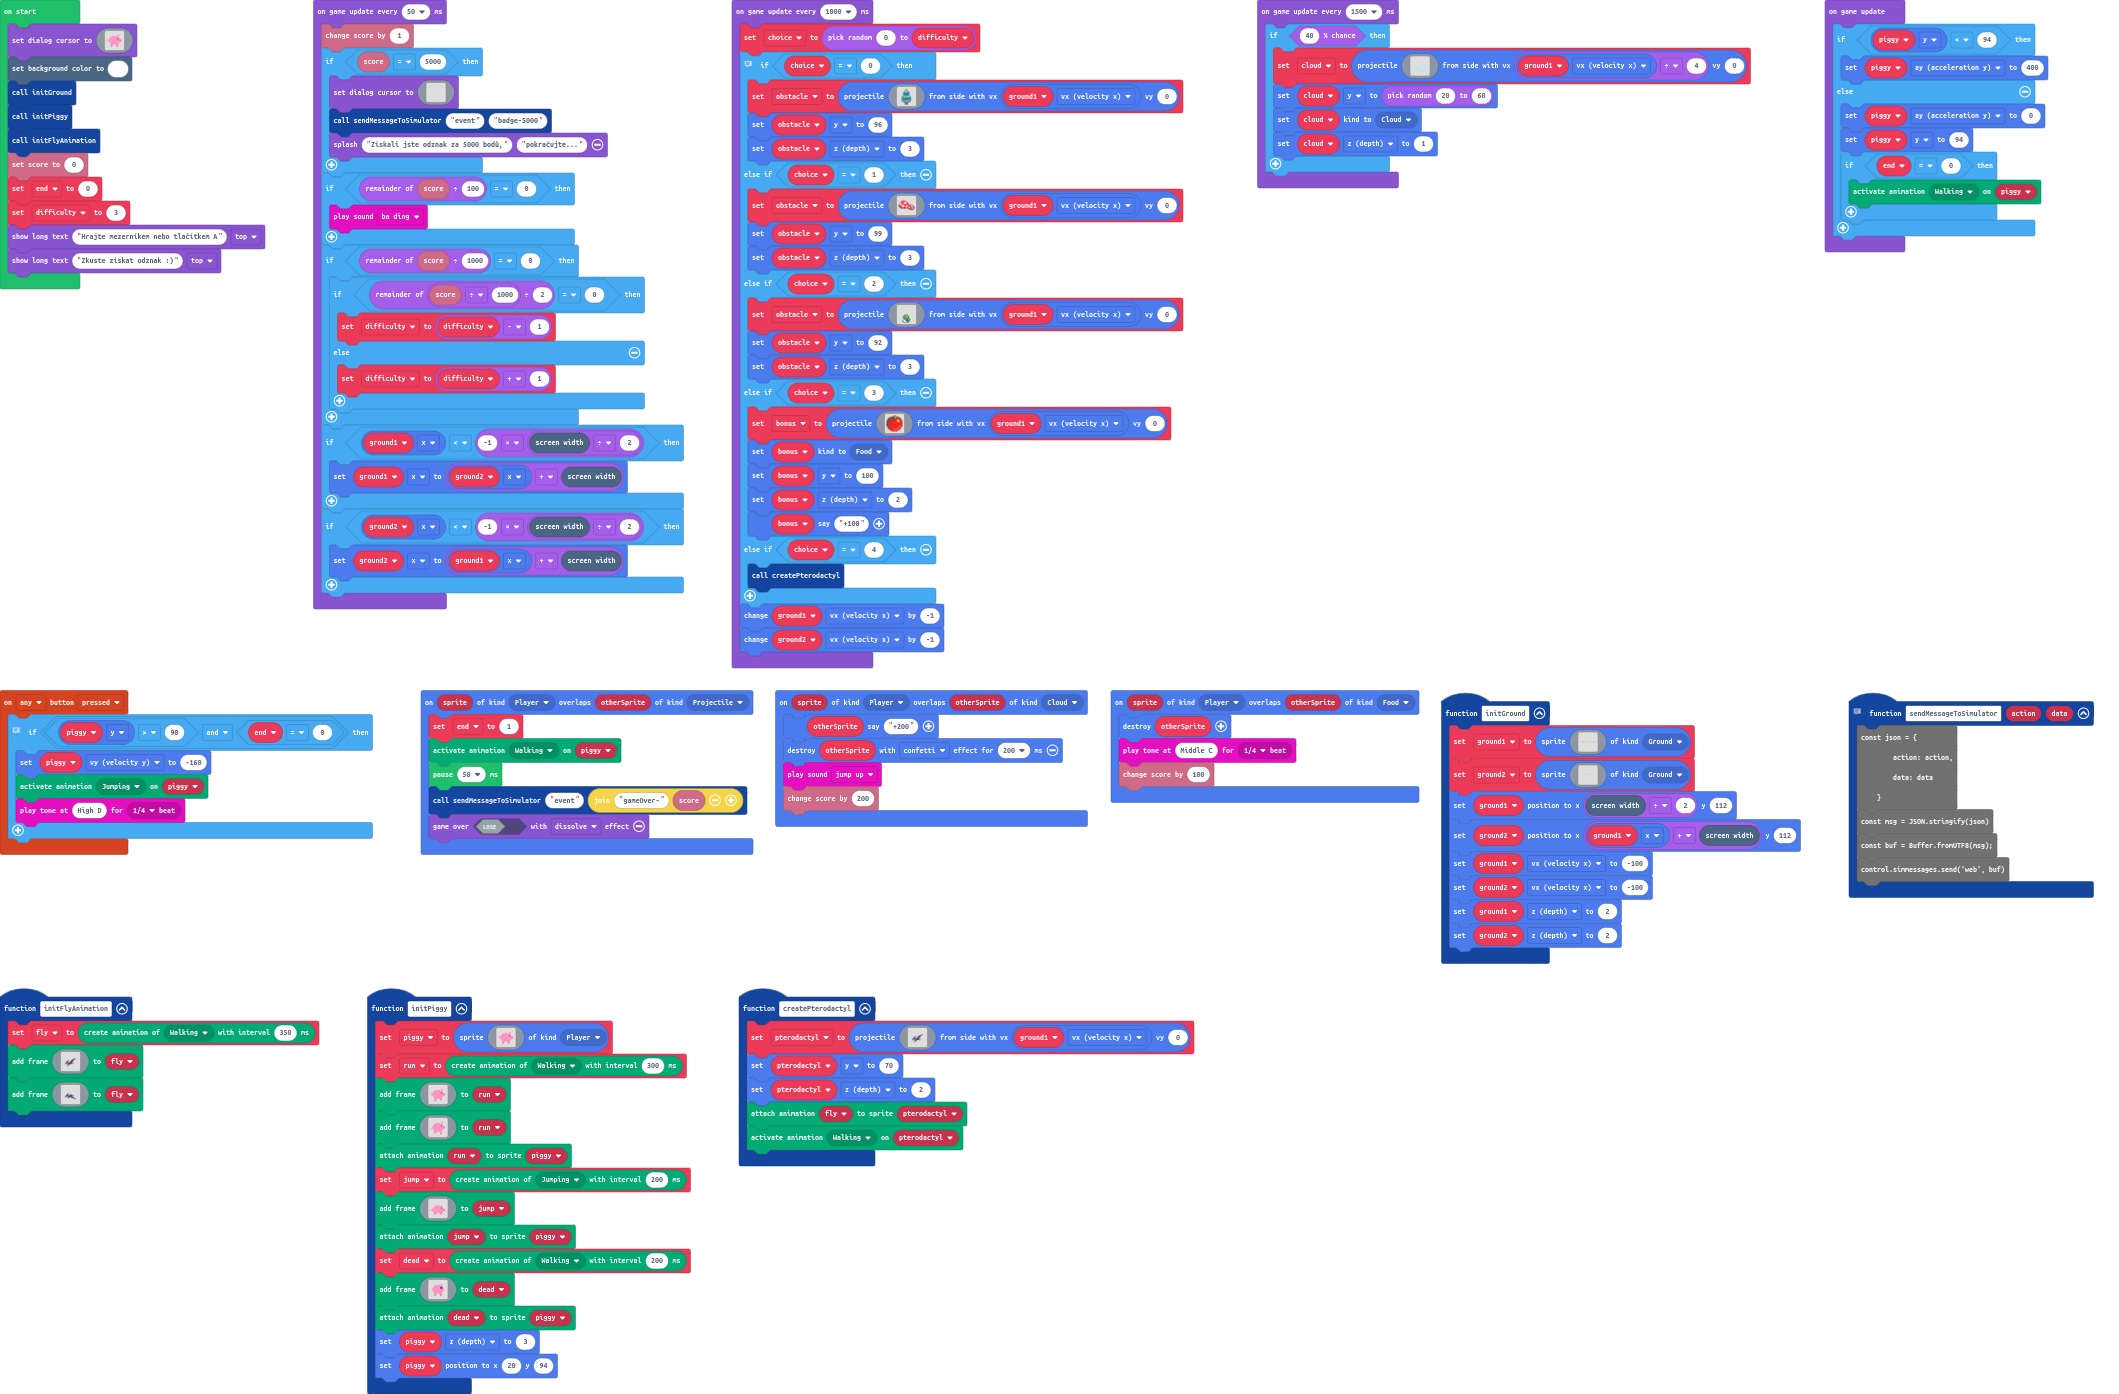
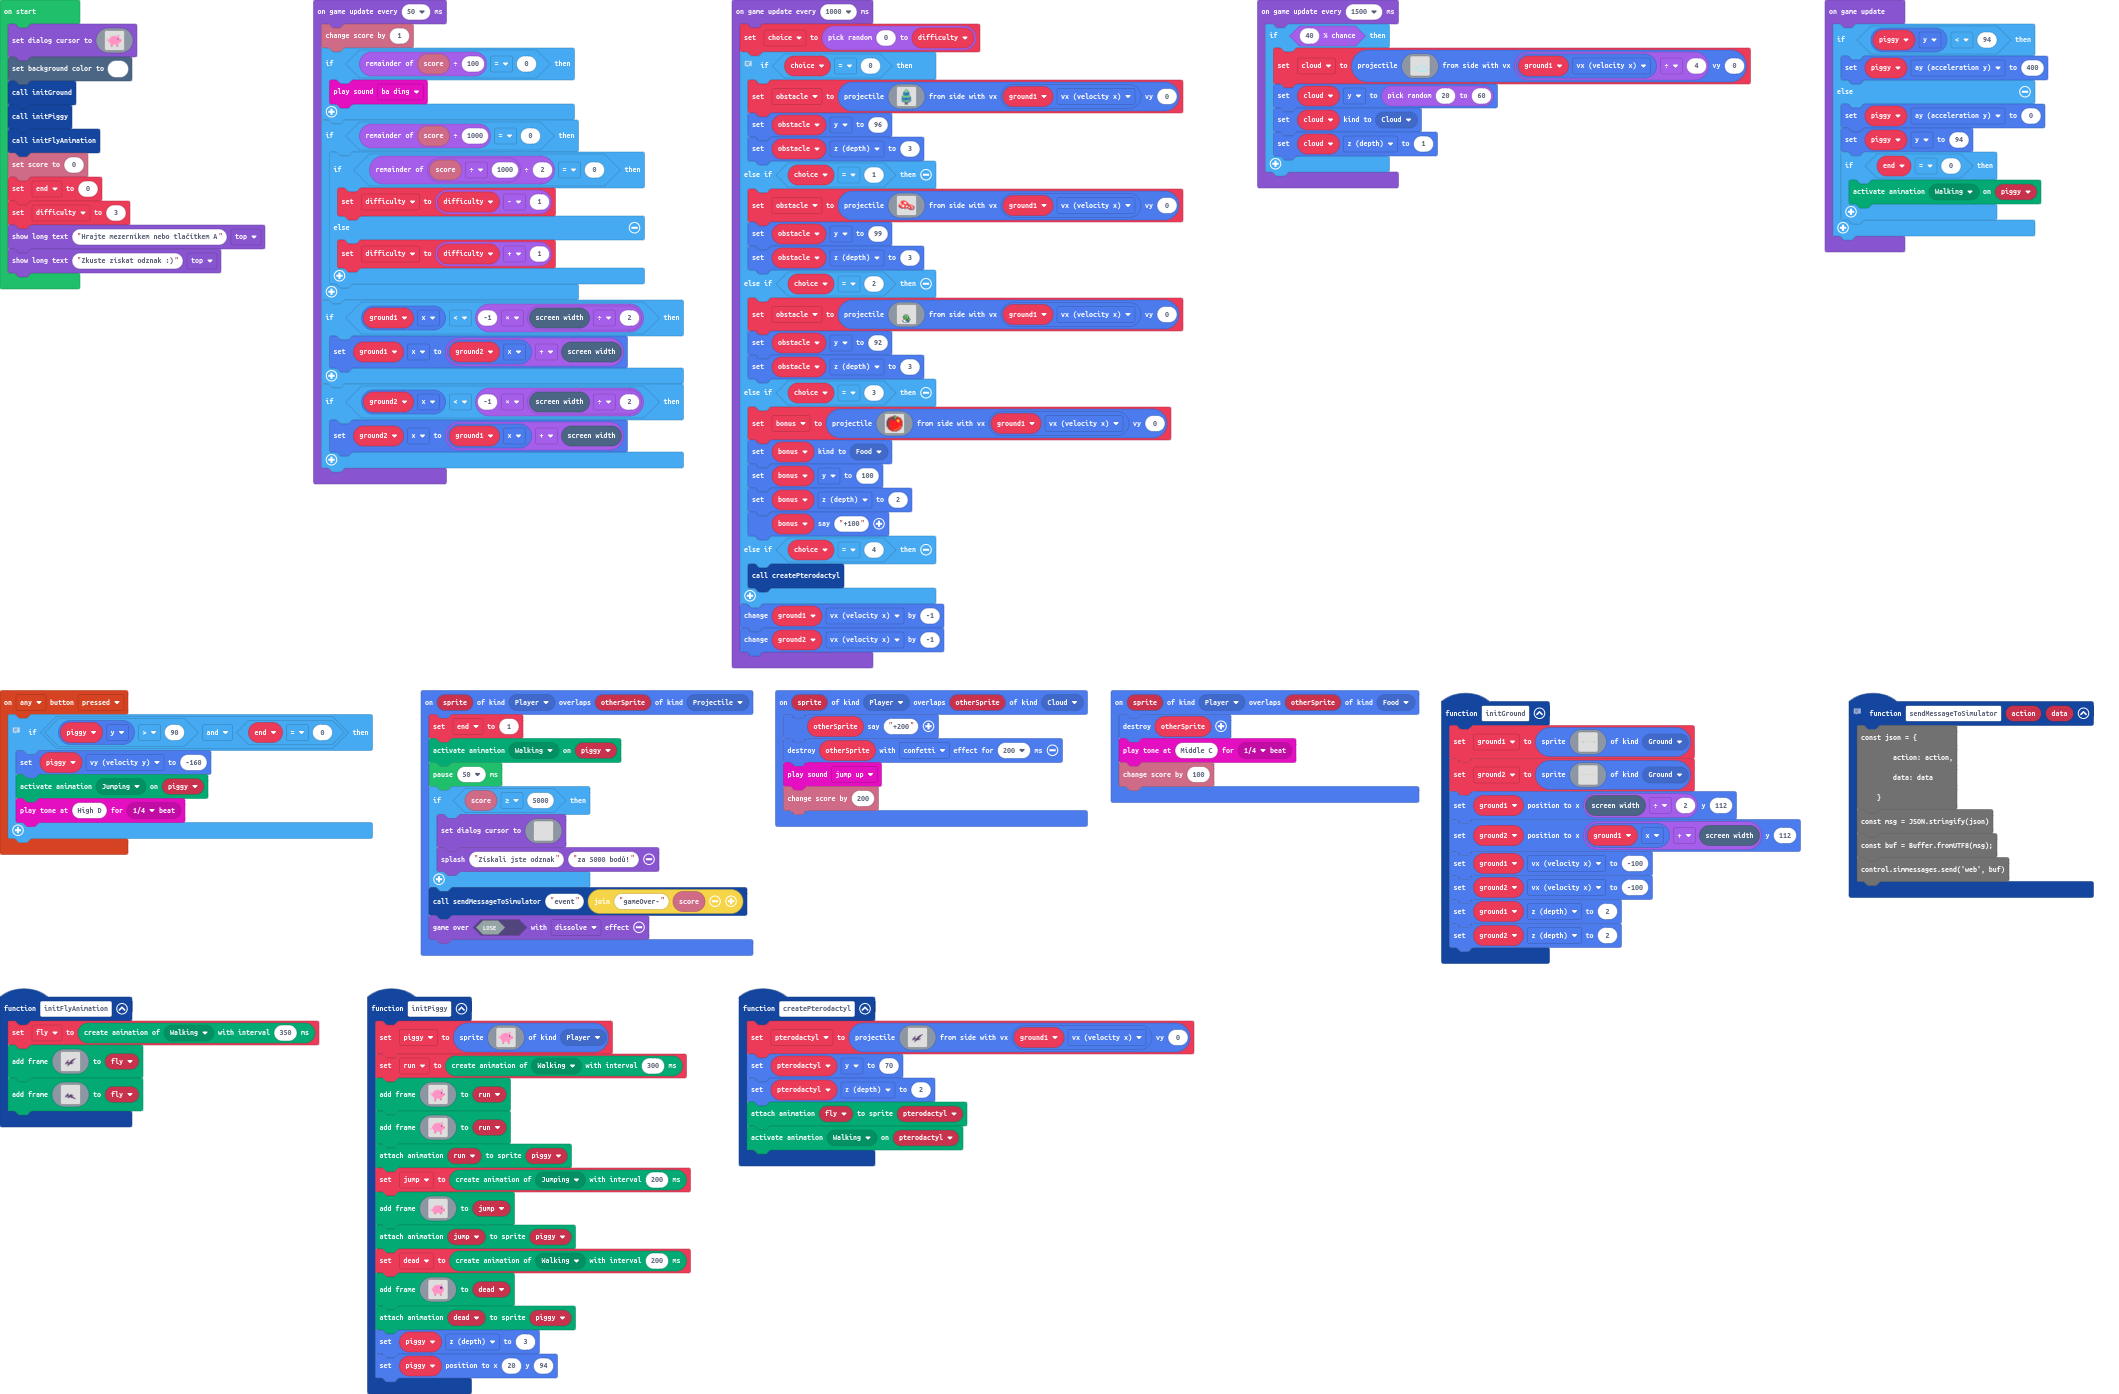
Update main.blocks, main.ts

Changed region(s): [[0.1246, 0.0308, 0.3426, 0.4627], [0.1869, 0.5552, 0.3738, 0.7095]]

diff --git a/main.ts b/main.ts
@@ -64,6 +64,27 @@ sprites.onOverlap(SpriteKind.Player, SpriteKind.Projectile, function (sprite, ot
     end = 1
     animation.setAction(piggy, ActionKind.Dead)
     pause(50)
+    if (info.score() >= 5000) {
+        game.setDialogCursor(img`
+            . . . . . . . . . . . . . . . . 
+            . . . . . . . . . . . . . . . . 
+            . . . . . . . . . . . . . . . . 
+            . . . . . . . . . . . . . . . . 
+            . . . . . . . . . . . . . . . . 
+            . . . . . . . . . . . . . . . . 
+            . . . . . . . . . . . . . . . . 
+            . . . . . . . . . . . . . . . . 
+            . . . . . . . . . . . . . . . . 
+            . . . . . . . . . . . . . . . . 
+            . . . . . . . . . . . . . . . . 
+            . . . . . . . . . . . . . . . . 
+            . . . . . . . . . . . . . . . . 
+            . . . . . . . . . . . . . . . . 
+            . . . . . . . . . . . . . . . . 
+            . . . . . . . . . . . . . . . . 
+            `)
+        game.splash("Získali jste odznak", "za 5000 bodů!")
+    }
     sendMessageToSimulator("event", "gameOver-" + info.score())
     game.over(false, effects.dissolve)
 })
@@ -119,28 +140,6 @@ game.onUpdate(function () {
 })
 game.onUpdateInterval(50, function () {
     info.changeScoreBy(1)
-    if (info.score() == 5000) {
-        game.setDialogCursor(img`
-            . . . . . . . . . . . . . . . . 
-            . . . . . . . . . . . . . . . . 
-            . . . . . . . . . . . . . . . . 
-            . . . . . . . . . . . . . . . . 
-            . . . . . . . . . . . . . . . . 
-            . . . . . . . . . . . . . . . . 
-            . . . . . . . . . . . . . . . . 
-            . . . . . . . . . . . . . . . . 
-            . . . . . . . . . . . . . . . . 
-            . . . . . . . . . . . . . . . . 
-            . . . . . . . . . . . . . . . . 
-            . . . . . . . . . . . . . . . . 
-            . . . . . . . . . . . . . . . . 
-            . . . . . . . . . . . . . . . . 
-            . . . . . . . . . . . . . . . . 
-            . . . . . . . . . . . . . . . . 
-            `)
-        sendMessageToSimulator("event", "badge-5000")
-        game.splash("Získali jste odznak za 5000 bodů,", "pokračujte...")
-    }
     if (info.score() % 100 == 0) {
         music.baDing.play()
     }
